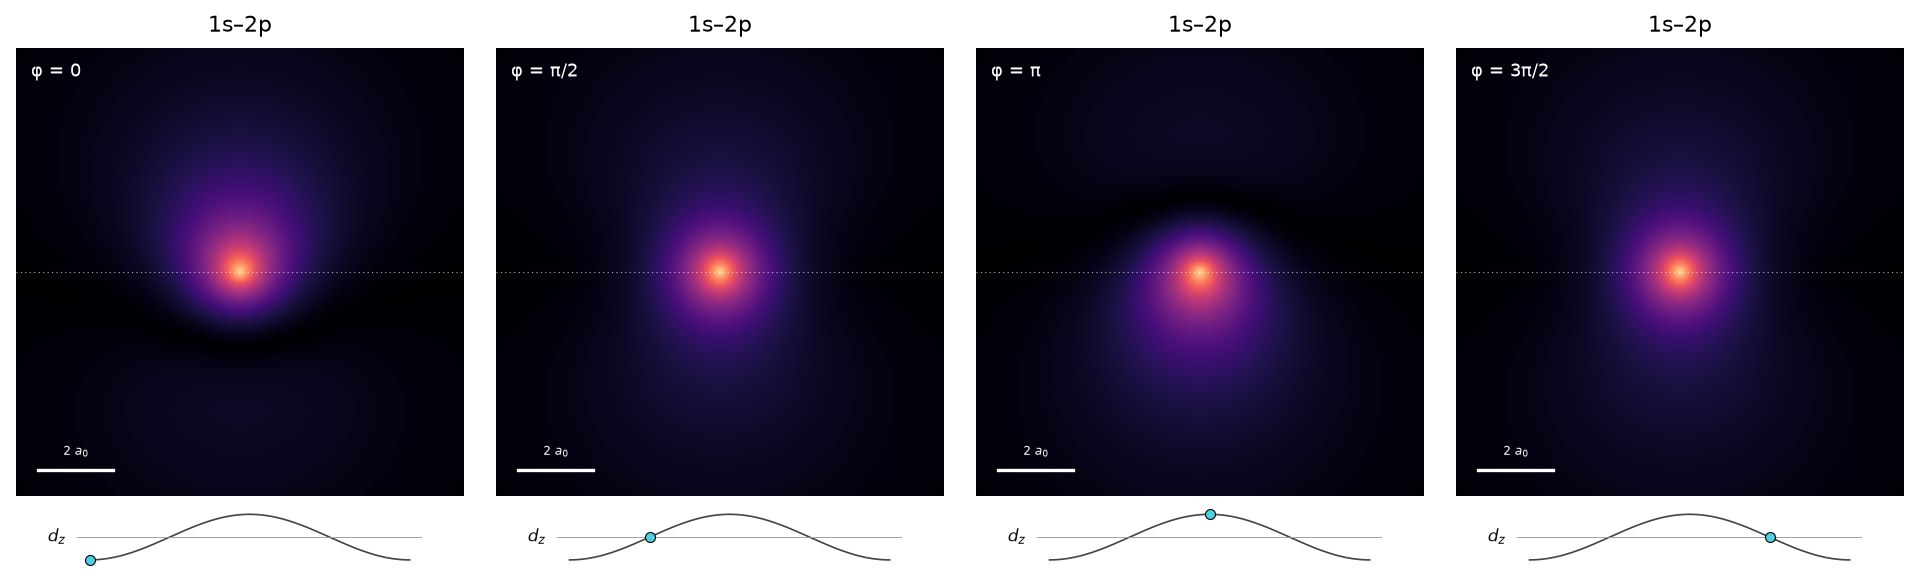
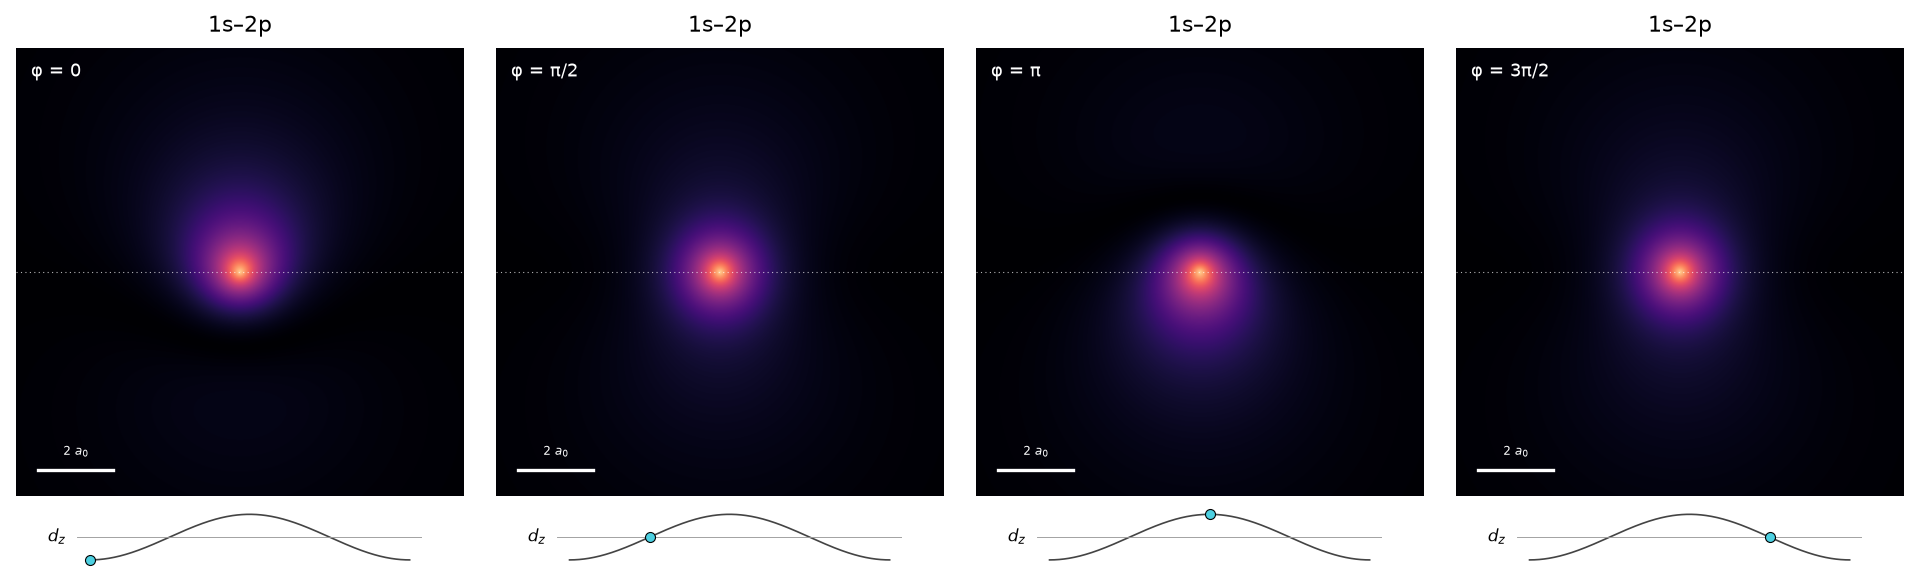
update

diff --git a/post1_radiation/superposition_gif.py b/post1_radiation/superposition_gif.py
@@ -32,7 +32,7 @@ BAR = 2.0            # scale bar length, a0
 N = 700              # grid points per axis
 FRAMES = 48          # frames per oscillation period
 FRAME_MS = 50        # milliseconds per frame
-GAMMAS = [0.5, 0.5, 0.35]          # display gamma of PowerNorm
+GAMMAS = [0.6, 0.5, 0.35]          # display gamma of PowerNorm
 GAMMA_NORM = 0.3     # exponent for adjusting vmaxes (same recipe and value as the other scripts)
 MARKER_COLOR = "#4DD0E1"
 
